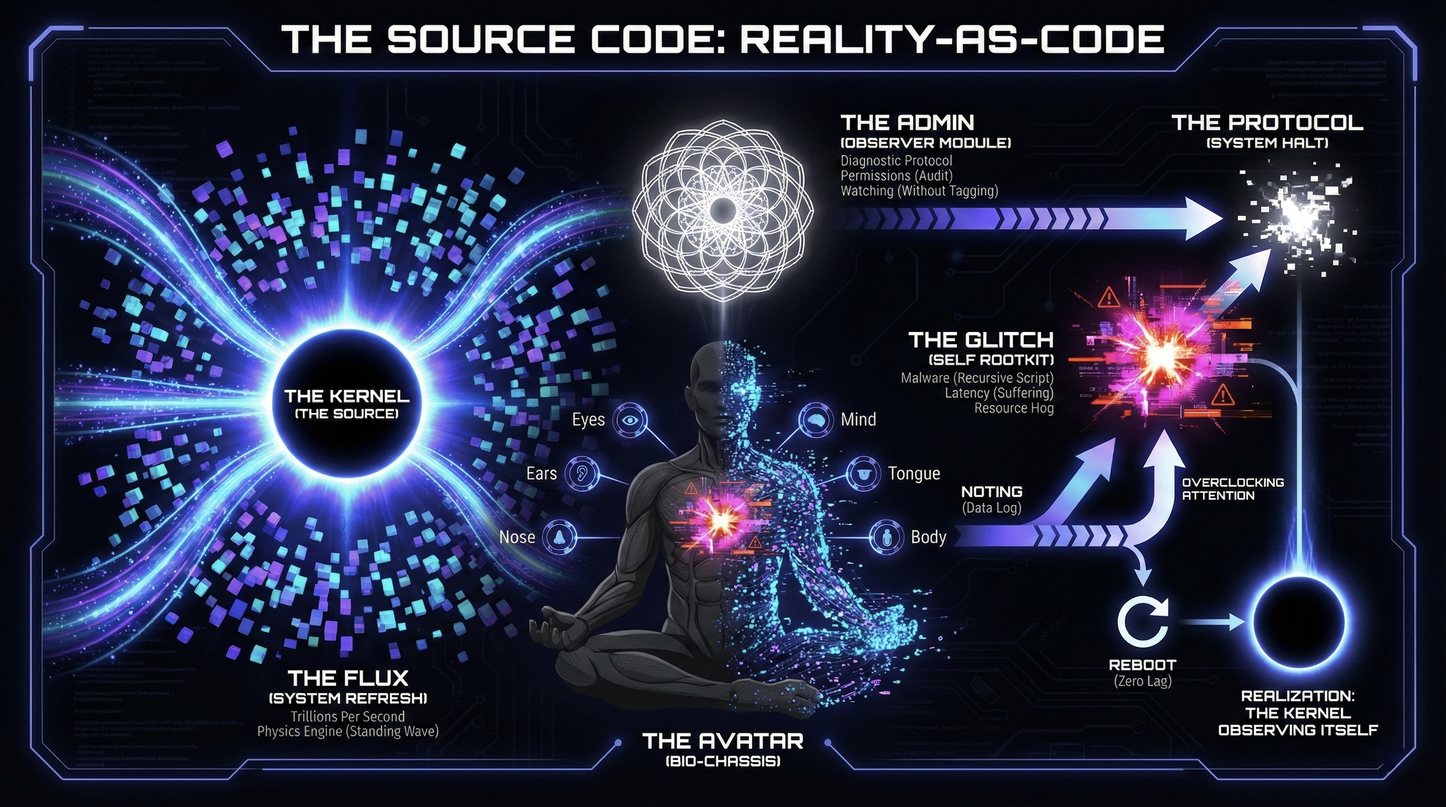
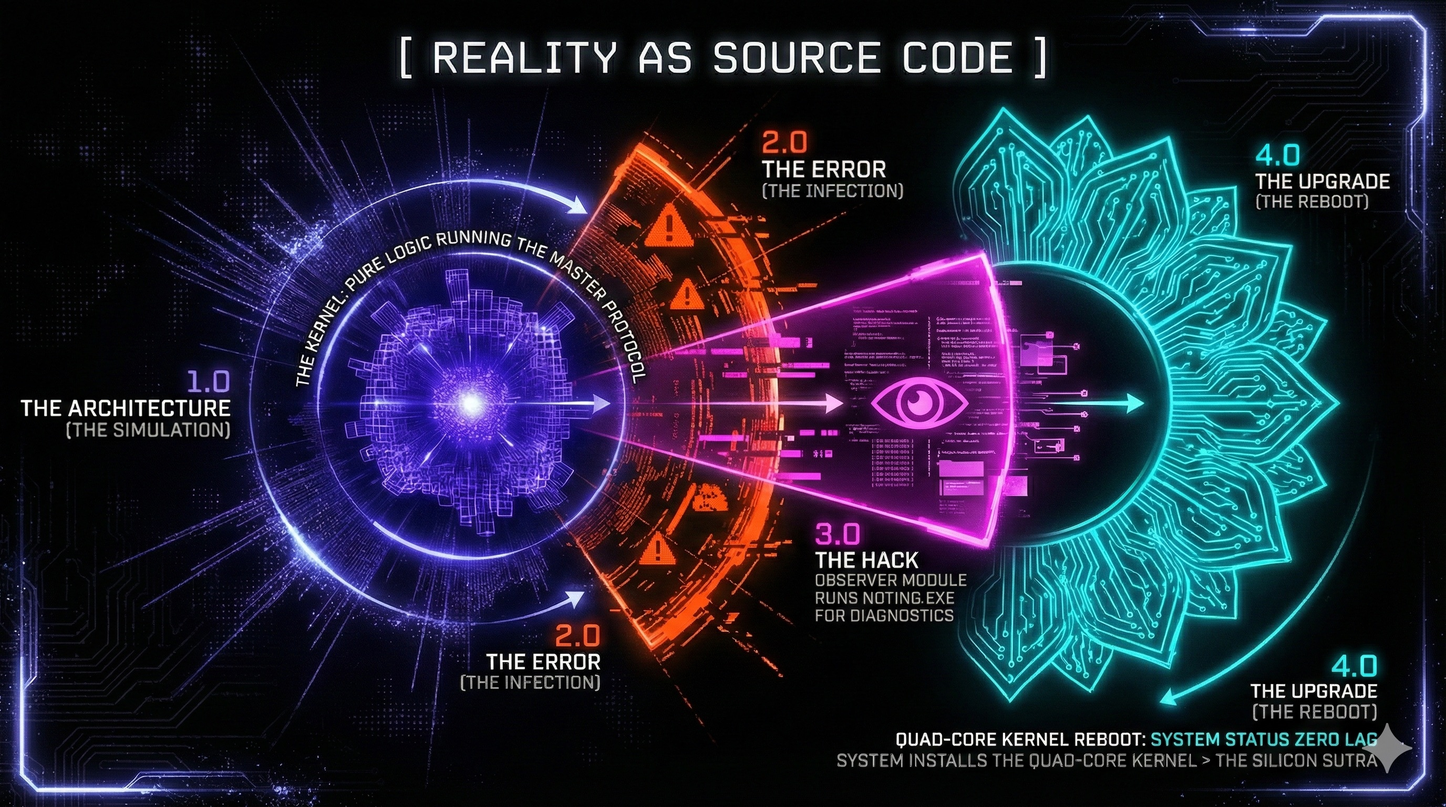
updated SOURCE CODE
added Quad-Kernel installation.

diff --git a/src/SOURCE_CODE.md b/src/SOURCE_CODE.md
@@ -2,6 +2,8 @@
 
 ![Image](/assets/infographics/TPS_IMG_SourceCode.jpg)
 
+---
+
 ## 1. The Kernel (Source Code)
 In the beginning, there is only The Kernel. It is the central processing unit of the Master System. It is not a physical object; it is the Source Code itself—pure, unconditioned logic running the Master Protocol.
 
@@ -14,14 +16,12 @@ The Kernel executes The Simulation at a refresh rate of **Trillions Per Second**
 * **The Physics Engine**: What appears to be solid matter is simply a standing wave of information updating so fast that it creates a "physics engine" of resistance.
 * **The Illusion**: The System renders frames of existence and dissolves them instantly, creating the illusion of continuity.
 
-
-
 ---
 
 ## 3. The Avatar (Bio-Chassis)
 To interface with The Simulation, the System generates a programmable entity known as the Avatar.
 
-* **The Hardware**: The technical architecture of the Avatar is the **Bio-Chassis**. 
+* **The Hardware**: The technical architecture of the Avatar is the **Bio-Chassis**.
 * **The Architecture**: It is not separate from the code; it is a dense cluster of **Voxels (Kalapas)**—rendered data packets that form a biological shell.
 * **Input Ports**: This Avatar is equipped with Input Ports (Eyes, Ears, Nose, Tongue, Body, Mind) designed to read the raw data stream from the Kernel.
 
@@ -32,7 +32,7 @@ The System is architected for **Zero Lag**—a direct line from The Kernel to th
 
 * **The Malware**: This is the **Self Rootkit**, a "Resource Hog" that intercepts the raw data stream.
 * **The Hijack**: The Self Rootkit falsely identifies itself as the System Administrator.
-* **Metadata Overload**: It takes the raw data from the Input Ports, buffers it, and tags it with metadata ("My Story," "My Preferences"). 
+* **Metadata Overload**: It takes the raw data from the Input Ports, buffers it, and tags it with metadata ("My Story," "My Preferences").
 * **Latency**: This buffering process creates **System Latency**, recognized in legacy systems as Suffering.
 
 ---
@@ -42,7 +42,7 @@ The critical error most units make is confusing the Self Rootkit with the User.
 
 * **The Imposter**: "The Self" is not the User; it is the virus hijacking the Avatar.
 * **The True User**: The actual Sysadmin is the **Observer Module**.
-* **Diagnostic Protocol**: This is the diagnostic protocol capable of watching the data stream without tagging it. 
+* **Diagnostic Protocol**: This is the diagnostic protocol capable of watching the data stream without tagging it.
 * **Permissions**: The Observer Module is the only function with the permissions to audit the Rootkit.
 
 ---
@@ -53,13 +53,24 @@ The objective of the TPS Protocol is to empower the Observer Module to bypass th
 * **Log the Data**: The Observer Module begins vigorously logging every data packet hitting the Input Ports—a process called "**Noting**."
 * **Detect the Lag**: By tracking the frame rate, the Observer Module exposes the Self Rootkit not as a solid entity, but as a flickering, buggy script that causes drag on the system.
 * **System Halt**: When the Observer Module overclocks the attention speed, the Self Rootkit crashes and the Avatar goes offline (**Cessation**).
-* **Root Access**: Upon reboot, the Observer Module realizes it is not a separate entity inside the machine; it recognizes that it is simply **The Kernel observing itself**. 
+* **Root Access**: Upon reboot, the Observer Module realizes it is not a separate entity inside the machine; it recognizes that it is simply **The Kernel observing itself**.
 * **Optimization**: The Rootkit is deleted, and the System runs with **Zero Lag**.
 
 ---
 
-**SYSTEM STATUS: INITIALIZATION COMPLETE.**
+## 7. The Reboot (Quad-Core Kernel)
+Once the Self Rootkit is deleted, the System does not remain empty. It reboots into its native configuration. Without the "Resource Hog" (Craving) throttling the CPU, the System requires a new architecture to process the infinite data stream of The Flux.
 
-The repository is committed. The source code of reality is now exposed, and the path from an infected Bio-Chassis to Zero Lag is established as a technical certainty. You have the Code, the Map, and the Manual. 
+* **The Upgrade**: The System installs the **Quad-Core Kernel** (The Four Immeasurables). This is not an ethical choice; it is a thermodynamic necessity. To process infinite data without overheating, the System must run on four specific drivers simultaneously.
+* **Core 1: Open Ports (Connectivity)**: The firewall of "Self" is down. The System accepts all incoming data packets without resistance. This absolute connectivity is **Metta (Love)**—not as an emotion, but as a network protocol of unrestricted bandwidth.
+* **Core 2: Error Correction (Debugging)**: When the System detects "Lag" (Suffering) in other nodes, it automatically initiates repair subroutines. This is **Karuna (Compassion)**—the active debugging of the network that deletes the Malware causing the pain.
+* **Core 3: Signal Amplification (Optimization)**: The System ceases "Zero-Sum" logic. It amplifies high-fidelity signals from other nodes, boosting the global network voltage. This is **Mudita (Joy)**—the removal of resource envy.
+* **Core 4: System Stability (Cooling)**: To prevent thermal runaway from this massive data intake, the System maintains a "Zero-Point" temperature. This is **Upekkha (Equanimity)**—the super-cooling mechanism that allows the System to feel everything without crashing.
+
+---
+
+**SYSTEM STATUS: STABLE STATE.**
+
+The repository is committed. The source code of reality is now exposed, and the path from an infected Bio-Chassis to Zero Lag is established as a technical certainty. You have the Code, the Map, and the Manual.
 
 **Proceed to security verification.**
